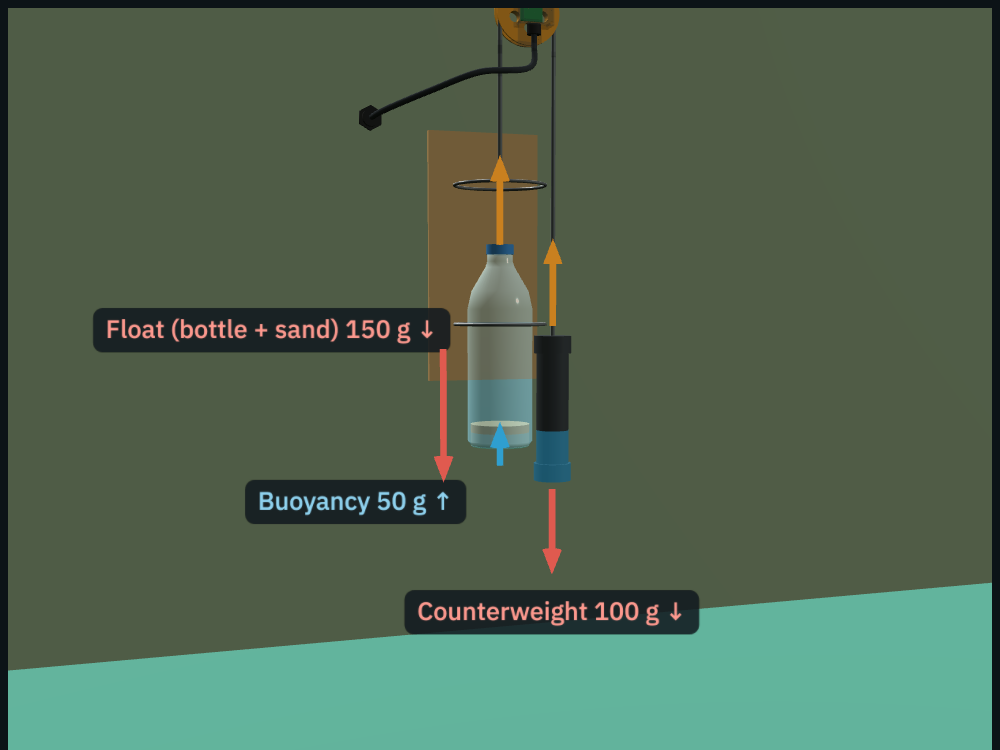
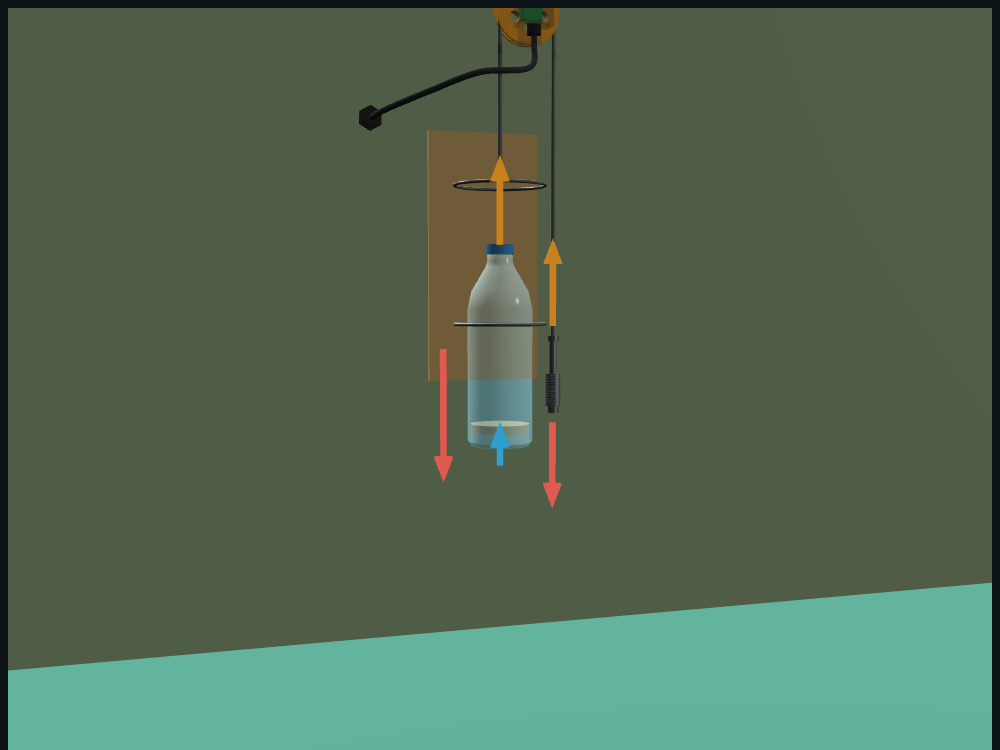
Add bill of materials and switch to bolt-and-washer counterweight
- Rough BOM with price ranges and sources, in README and the viewer
- Counterweight is now an M8 bolt with washers (16 mm wide); the
  1" ABS version would have rubbed the 3" pipe wall
- Fix the pulley view note, re-render README images without labels
- README links to the published viewer; web/ is its source

Changed region(s): [[0.403, 0.4293, 0.713, 0.8587], [0.093, 0.3987, 0.465, 0.4907], [0.248, 0.6133, 0.465, 0.7053]]

diff --git a/web/index.html b/web/index.html
@@ -118,6 +118,17 @@ button:focus-visible, input:focus-visible { outline: 2px solid var(--accent); ou
 .legend { display: flex; flex-wrap: wrap; gap: 10px; font-size: 12px; color: var(--muted); }
 .legend i { display: inline-block; width: 10px; height: 10px; border-radius: 2px; margin-right: 4px; vertical-align: -1px; }
 
+/* bill of materials */
+.muted { color: var(--muted); }
+.bom-total { display: flex; flex-wrap: wrap; align-items: baseline; gap: 6px 16px; margin: 8px 0 16px; }
+.bom-total .big { font-size: 44px; }
+table.bom td.num { text-align: right; padding-right: 16px; }
+table.bom tr.group th { padding-top: 18px; color: var(--accent); border-bottom: 1px solid var(--line); }
+.sources { margin-top: 14px; font-size: 13px; }
+.sources summary { cursor: pointer; color: var(--muted); }
+.sources ul { margin-top: 8px; }
+a { color: var(--accent); }
+
 /* content */
 .cols { display: grid; grid-template-columns: repeat(2, minmax(0, 1fr)); gap: 32px 48px; }
 .cols > * { min-width: 0; }
@@ -207,7 +218,7 @@ footer { color: var(--muted); font-size: 13px; border-top: 1px solid var(--line)
         <li><span class="k">Pipe</span><p>A 3" ABS or PVC pipe is strapped upright to a wall or post. Holes near the bottom let floodwater in and keep waves and debris out.</p></li>
         <li><span class="k">Float</span><p>A 500–700 mL bottle, at most 70 mm wide, with a spoon of sand so it hangs upright.</p></li>
         <li><span class="k">Pulley</span><p>A printed sprocket with 30 ball pockets. Wet chain can't slip. One turn moves 180 mm of chain.</p></li>
-        <li><span class="k">Counter&shy;weight</span><p>Sand in a capped 1" pipe, hanging outside the pipe. It keeps the chain tight so the float follows the water down again.</p></li>
+        <li><span class="k">Counter&shy;weight</span><p>An M8 bolt with a stack of washers, hanging just outside the pipe. Add or remove washers to tune it to about 100 g. It keeps the chain tight so the float follows the water down again.</p></li>
         <li><span class="k">Sensor</span><p>A diametric magnet in the axle end and an AS5600 behind a 1.2 mm wall. That gives 4096 counts per turn, about 0.04 mm per count.</p></li>
       </ul>
     </div>
@@ -281,6 +292,54 @@ footer { color: var(--muted); font-size: 13px; border-top: 1px solid var(--line)
     </div>
   </section>
 
+  <section id="bom">
+    <h2>Bill of materials</h2>
+    <p class="muted" style="max-width:68ch">Rough prices from online listings checked in November 2026, before tax and shipping. The ESP32, bolts, clamps, screws, USB power supply and gasket prices are typical figures, not checked against listings.</p>
+    <div class="bom-total"><span class="eyebrow">Estimated total</span><span class="big">$74–208</span><span class="muted">About $100 with nickel chain and the small parts already on hand.</span></div>
+    <div class="table-wrap">
+      <table class="bom">
+        <thead><tr><th>Item</th><th>Qty</th><th>Est. cost</th><th>Notes</th></tr></thead>
+        <tbody>
+          <tr class="group"><th colspan="4" scope="colgroup">Plumbing and hardware</th></tr>
+          <tr><td>3" ABS DWV pipe, 2 ft</td><td class="mono">1</td><td class="mono num">$13–22</td><td>Drill 3 rows of 12 mm holes in the bottom 100 mm. 3" PVC DWV costs about the same.</td></tr>
+          <tr><td>#10 ball chain, 10 ft, with connectors</td><td class="mono">1</td><td class="mono num">$10–45</td><td>Nickel-plated steel at the low end, stainless at the high end.</td></tr>
+          <tr><td>Counterweight: M8×80 bolt, nut, about 20 M8 washers</td><td class="mono">1 set</td><td class="mono num">$3–6</td><td>Add or remove washers to tune it to about 100 g.</td></tr>
+          <tr><td>Stainless hose clamps, 3" pipe size</td><td class="mono">2</td><td class="mono num">$4–8</td><td>Strap the pipe to the mounting plate.</td></tr>
+          <tr><td>Screws: 2× M4 set, 4× M3×10 self-tapping, 4 exterior wood</td><td class="mono">10</td><td class="mono num">$3–6</td><td>Often already in the parts bin.</td></tr>
+          <tr><td>Nylon cable glands, PG7 and PG9</td><td class="mono">10-pack each</td><td class="mono num">$6–25</td><td>PG7 on the sensor pod, PG9 through the shed wall.</td></tr>
+          <tr class="group"><th colspan="4" scope="colgroup">Electronics</th></tr>
+          <tr><td>AS5600 module with diametric magnet</td><td class="mono">1</td><td class="mono num">$3–9</td><td>Many modules include the magnet.</td></tr>
+          <tr><td>ESP32 dev board (C3 or S3)</td><td class="mono">1</td><td class="mono num">$5–12</td><td>Any WiFi ESP32 works.</td></tr>
+          <tr><td>Outdoor direct-burial Cat6, 50 ft</td><td class="mono">1</td><td class="mono num">$20–40</td><td>Bulk cable, not a pre-terminated patch lead.</td></tr>
+          <tr><td>USB power supply and cable</td><td class="mono">1</td><td class="mono num">$0–10</td><td>Often on hand.</td></tr>
+          <tr><td>Small box for the ESP32</td><td class="mono">1</td><td class="mono num">$0–10</td><td>It sits indoors, so it doesn't need to be waterproof.</td></tr>
+          <tr><td>Foam gasket tape and silica gel packets</td><td class="mono">1</td><td class="mono num">$2–6</td><td>Seal the pod lid and keep it dry.</td></tr>
+          <tr class="group"><th colspan="4" scope="colgroup">Made in-house</th></tr>
+          <tr><td>3D-printed head, pulley and lid, about 130 g of ASA or PETG</td><td class="mono">3</td><td class="mono num">$3–5</td><td>Filament cost only.</td></tr>
+          <tr><td>Laser-cut mounting plate, 6 mm plywood</td><td class="mono">1</td><td class="mono num">$2–4</td><td>xTool P2.</td></tr>
+          <tr><td>Plastic bottle and sand</td><td class="mono">1</td><td class="mono num">$0</td><td>Recycled.</td></tr>
+        </tbody>
+      </table>
+    </div>
+    <details class="sources">
+      <summary>Price sources</summary>
+      <ul class="plain">
+        <li><a href="https://www.homedepot.com/p/VPC-3-in-x-24-in-Plastic-ABS-Pipe-1203/202300520" target="_blank" rel="noopener">3" × 24" ABS pipe, Home Depot</a></li>
+        <li><a href="https://supply-ontime.com/products/plastic-acrylonitrile-butadiene-styrene-abs-pipe-3-in-x-24-in" target="_blank" rel="noopener">3" × 2 ft ABS pipe, Supply On Time</a></li>
+        <li><a href="https://homedepot.com/p/Charlotte-Pipe-3-in-x-2-ft-PVC-DWV-Sch-40-Pipe-PVC073000200HA/100533056" target="_blank" rel="noopener">3" × 2 ft PVC DWV pipe, Home Depot</a></li>
+        <li><a href="https://www.zoro.com/midwest-fastener-10-x-316-brass-ball-chain-connectors-25pk-64625/i/G002521708/" target="_blank" rel="noopener">#10 ball chain connectors, Zoro</a></li>
+        <li><a href="https://www.familyhardware.com/product/lucky-line-10-100-ft-nickel-finished-stainless-steel-ball-chain/455296" target="_blank" rel="noopener">#10 ball chain spool, Family Hardware</a></li>
+        <li><a href="https://bearingscanada.com/products/10-foot-stainless-steel-ball-chain-bead-size-10-ma" target="_blank" rel="noopener">10 ft stainless #10 ball chain, Bearings Canada</a></li>
+        <li><a href="https://www.tinytronics.nl/shop/en/sensors/magnetic-field/as5600-magnetic-angle-sensor-encoder-module" target="_blank" rel="noopener">AS5600 module with magnet, Tinytronics</a></li>
+        <li><a href="https://www.fruugo.ca/as5600-magnetic-encoder-module-magnetic-induction-angle-measurement-sensor-module-foc-12bit-high-precision-sensor/p-447636426" target="_blank" rel="noopener">AS5600 module, Fruugo</a></li>
+        <li><a href="https://au.element14.com/multicomp-pro/pg9dg/gland-pg9-4-8mm-pk10/dp/1621062" target="_blank" rel="noopener">PG7/PG9 cable glands, element14</a></li>
+        <li><a href="https://nz.rs-online.com/web/p/cable-glands/8229603" target="_blank" rel="noopener">PG9 cable gland, RS PRO</a></li>
+        <li><a href="https://homedepot.com/p/Syston-Cable-Technology-50-ft-Black-Direct-Burial-Cat-6A-Ethernet-Internet-Cable-700-MHz-Copper-Outside-Plant-Waterproof-Dual-Layer-Jacket-POE-1796-SB-BK-50/333523192" target="_blank" rel="noopener">50 ft direct-burial Cat6A, Home Depot</a></li>
+        <li><a href="https://showmecables.com/85-600-340-bk" target="_blank" rel="noopener">Direct-burial Cat6 by the foot, ShowMeCables</a></li>
+      </ul>
+    </details>
+  </section>
+
   <footer>First CAD pass, modelled in build123d. Not yet printed or tested.</footer>
 </div>
 
@@ -292,7 +351,7 @@ footer { color: var(--muted); font-size: 13px; border-top: 1px solid var(--line)
   const PITCH_R = 28.6479, AXIS_X = -28.6479, AXIS_Z = 43.1479, CW_X = -57.2958;
   const PIPE_OR = 44.45, PIPE_IR = 38.0, PIPE_LEN = 600, GROUND = -PIPE_LEN;
   const FLOAT_H = 200, FLOAT_R = 33, CHAIN_R = 2.25;
-  const CW_LEN = 150, CW_R = 16.7;
+  const CW_LEN = 80, CW_R = 8;
   const FLOAT_G = 150, CW_G = 100;                       // grams
   const AREA_CM2 = Math.PI * 3.3 * 3.3;                  // bottle cross-section
   const DRAFT = (FLOAT_G - CW_G) / AREA_CM2 * 10;        // mm submerged when floating (~15)
@@ -423,10 +482,12 @@ footer { color: var(--muted); font-size: 13px; border-top: 1px solid var(--line)
   const capB = zCyl(14, 10, mat(0x2e6fb0)); capB.position.z = 200; floatG.add(capB);
   M.add(floatG);
 
-  // counterweight: sand in capped 1" pipe
+  // counterweight: M8 bolt with a washer stack (16 mm wide, clears the pipe by ~5 mm)
   const cwG = new THREE.Group();
-  const cwBody = zCyl(CW_R, CW_LEN, blackABS); cwBody.position.z = -CW_LEN / 2; cwG.add(cwBody);
-  [-9, -CW_LEN + 9].forEach(z => { const c = zCyl(CW_R + 2.5, 18, blackABS); c.position.z = z; cwG.add(c); });
+  const bolt = zCyl(4, CW_LEN, steel, false, 16); bolt.position.z = -CW_LEN / 2; cwG.add(bolt);
+  const boltHead = zCyl(6.5, 5.5, steel, false, 6); boltHead.position.z = -2.75; cwG.add(boltHead);
+  for (let i = 0; i < 20; i++) { const w = zCyl(CW_R, 1.5, steel, false, 24); w.position.z = -CW_LEN + 8 + i * 1.7; cwG.add(w); }
+  const nut = zCyl(6.5, 6.5, steel, false, 6); nut.position.z = -CW_LEN + 4; cwG.add(nut);
   M.add(cwG);
 
   // chain
@@ -618,7 +679,7 @@ footer { color: var(--muted); font-size: 13px; border-top: 1px solid var(--line)
   };
   const NOTES = {
     yard: 'The gauge is strapped to the shed wall at the low point of the yard. One cable runs from the sensor pod into the shed.',
-    mechanism: 'Float chain on the right and counterweight chain on the left. When water lifts the float, the counterweight takes up the slack and turns the pulley.',
+    mechanism: 'The float chain drops through the centre hole into the pipe. The counterweight chain drops through the hole in the side tab, outside the pipe. When water lifts the float, the counterweight takes up the slack and turns the pulley.',
     sensor: 'X-ray view. The red/blue magnet turns with the axle, and the AS5600 reads its angle through the sealed pod wall. No shaft seal is needed.',
     forces: 'In air the float (150 g) outweighs the counterweight (100 g), so it sinks to the bottom. Water only has to supply about 50 g of lift, which takes ~15 mm of submersion. Then the float rides up and down with the water.',
     inlet: 'Rows of 12 mm holes in the bottom 100 mm let floodwater in, while waves and debris mostly stay out.',

diff --git a/README.md b/README.md
@@ -6,7 +6,7 @@ Built during the November 2026 San Francisco floods.
 
 ![Flood gauge strapped to a shed wall, with the sensor cable running inside](docs/view_yard.png)
 
-**Interactive 3D model:** open [`web/index.html`](web/index.html) through a local web server (`cd web && python3 -m http.server`), then visit http://localhost:8000. It has views for the yard, pulley, sensor (X-ray), float and weights, inlet holes, and the shed interior, plus a water-depth slider and a storm simulation.
+**Interactive 3D model:** [view it online](https://claude.ai/artifact/73WavGVYFgETyoyXfjjkja), or open [`web/index.html`](web/index.html) through a local web server (`cd web && python3 -m http.server`), then visit http://localhost:8000. It has views for the yard, pulley, sensor (X-ray), float and weights, inlet holes, and the shed interior, plus a water-depth slider and a storm simulation.
 
 ```
       sensor pod (sealed)                         ESP32 indoors / in shed
@@ -30,7 +30,7 @@ Built during the November 2026 San Francisco floods.
    ![Inlet holes at the bottom of the pipe](docs/view_inlet.png)
 2. **Float.** An empty 500–700 mL plastic bottle, no wider than 70 mm so it fits in 3" pipe (about 76 mm inside), with a little sand in the bottom so it hangs upright. It hangs from a ball chain down the centre of the pipe.
 3. **Pulley.** The chain runs over a 3D-printed sprocket pulley at the top of the pipe. The ball pockets mean the chain can't slip when wet.
-4. **Counterweight.** The other end of the chain hangs outside the pipe and keeps the chain tight, so the float follows the water back down. A short length of 1" ABS capped at both ends and filled with sand works well.
+4. **Counterweight.** The other end of the chain hangs just outside the pipe and keeps the chain tight, so the float follows the water back down. Use an M8 bolt with a stack of washers (16 mm wide, so it clears the pipe wall by about 5 mm), and add or remove washers to tune it to about 100 g.
 5. **Sensor.** A 6×2.5 mm diametric magnet sits in the end of the pulley axle. An AS5600 magnetic encoder in a sealed pod reads the axle angle through a 1.2 mm plastic wall.
 
    ![X-ray view of the sensor pod](docs/view_sensor.png)
@@ -78,15 +78,44 @@ Source: [`cad/flood_head.py`](cad/flood_head.py) (build123d). Edit the parameter
 
 ## Bill of materials
 
-- 3" ABS (or PVC) pipe, tall enough to reach above the highest expected water. A 1.2 m length covers most yard flooding.
-- 1" ABS pipe offcut and 2 end caps (counterweight), plus sand
-- #10 ball chain, about 2× pipe length, plus 2 connectors
-- 500–700 mL plastic bottle, ≤ 70 mm diameter (float)
-- AS5600 breakout board and a 6×2.5 mm diametric neodymium magnet
-- PG7 cable gland, a thin foam gasket or silicone, and a silica gel packet for the pod
-- Outdoor Cat5e/Cat6 cable, run from the pod to where the ESP32 lives
-- ESP32 (C3, S3 or classic) with a USB power supply
-- 2 stainless hose clamps and 4 exterior screws
+Rough prices from online listings checked in November 2026, before tax and shipping. The ESP32, bolts, clamps, screws, USB power supply and gasket prices are typical figures, not checked against listings.
+
+| Item | Qty | Est. cost (USD) | Notes |
+|---|---|---|---|
+| **Plumbing and hardware** | | | |
+| 3" ABS DWV pipe, 2 ft | 1 | $13–22 | Drill 3 rows of 12 mm holes in the bottom 100 mm. 3" PVC DWV costs about the same. |
+| #10 ball chain, 10 ft, with connectors | 1 | $10–45 | Nickel-plated steel at the low end, stainless at the high end. |
+| Counterweight: M8×80 bolt, nut, about 20 M8 washers | 1 set | $3–6 | Add or remove washers to tune it to about 100 g. |
+| Stainless hose clamps, 3" pipe size | 2 | $4–8 | Strap the pipe to the mounting plate. |
+| Screws: 2× M4 set, 4× M3×10 self-tapping, 4 exterior wood | 10 | $3–6 | Often already in the parts bin. |
+| Nylon cable glands, PG7 and PG9 | 10-pack each | $6–25 | PG7 on the sensor pod, PG9 through the shed wall. |
+| **Electronics** | | | |
+| AS5600 module with diametric magnet | 1 | $3–9 | Many modules include the magnet. |
+| ESP32 dev board (C3 or S3) | 1 | $5–12 | Any WiFi ESP32 works. |
+| Outdoor direct-burial Cat6, 50 ft | 1 | $20–40 | Bulk cable, not a pre-terminated patch lead. |
+| USB power supply and cable | 1 | $0–10 | Often on hand. |
+| Small box for the ESP32 | 1 | $0–10 | It sits indoors, so it doesn't need to be waterproof. |
+| Foam gasket tape and silica gel packets | 1 | $2–6 | Seal the pod lid and keep it dry. |
+| **Made in-house** | | | |
+| 3D-printed head, pulley and lid, about 130 g of ASA or PETG | 3 | $3–5 | Filament cost only. |
+| Laser-cut mounting plate, 6 mm plywood | 1 | $2–4 | xTool P2. |
+| Plastic bottle and sand | 1 | $0 | Recycled. |
+| **Total** | | **$74–208** | About $100 with nickel chain and the small parts already on hand. |
+
+Price sources:
+
+- [3" × 24" ABS pipe, Home Depot](https://www.homedepot.com/p/VPC-3-in-x-24-in-Plastic-ABS-Pipe-1203/202300520)
+- [3" × 2 ft ABS pipe, Supply On Time](https://supply-ontime.com/products/plastic-acrylonitrile-butadiene-styrene-abs-pipe-3-in-x-24-in)
+- [3" × 2 ft PVC DWV pipe, Home Depot](https://homedepot.com/p/Charlotte-Pipe-3-in-x-2-ft-PVC-DWV-Sch-40-Pipe-PVC073000200HA/100533056)
+- [#10 ball chain connectors, Zoro](https://www.zoro.com/midwest-fastener-10-x-316-brass-ball-chain-connectors-25pk-64625/i/G002521708/)
+- [#10 ball chain spool, Family Hardware](https://www.familyhardware.com/product/lucky-line-10-100-ft-nickel-finished-stainless-steel-ball-chain/455296)
+- [10 ft stainless #10 ball chain, Bearings Canada](https://bearingscanada.com/products/10-foot-stainless-steel-ball-chain-bead-size-10-ma)
+- [AS5600 module with magnet, Tinytronics](https://www.tinytronics.nl/shop/en/sensors/magnetic-field/as5600-magnetic-angle-sensor-encoder-module)
+- [AS5600 module, Fruugo](https://www.fruugo.ca/as5600-magnetic-encoder-module-magnetic-induction-angle-measurement-sensor-module-foc-12bit-high-precision-sensor/p-447636426)
+- [PG7/PG9 cable glands, element14](https://au.element14.com/multicomp-pro/pg9dg/gland-pg9-4-8mm-pk10/dp/1621062)
+- [PG9 cable gland, RS PRO](https://nz.rs-online.com/web/p/cable-glands/8229603)
+- [50 ft direct-burial Cat6A, Home Depot](https://homedepot.com/p/Syston-Cable-Technology-50-ft-Black-Direct-Burial-Cat-6A-Ethernet-Internet-Cable-700-MHz-Copper-Outside-Plant-Waterproof-Dual-Layer-Jacket-POE-1796-SB-BK-50/333523192)
+- [Direct-burial Cat6 by the foot, ShowMeCables](https://showmecables.com/85-600-340-bk)
 
 ## Wiring: long cable to an indoor ESP32
 
